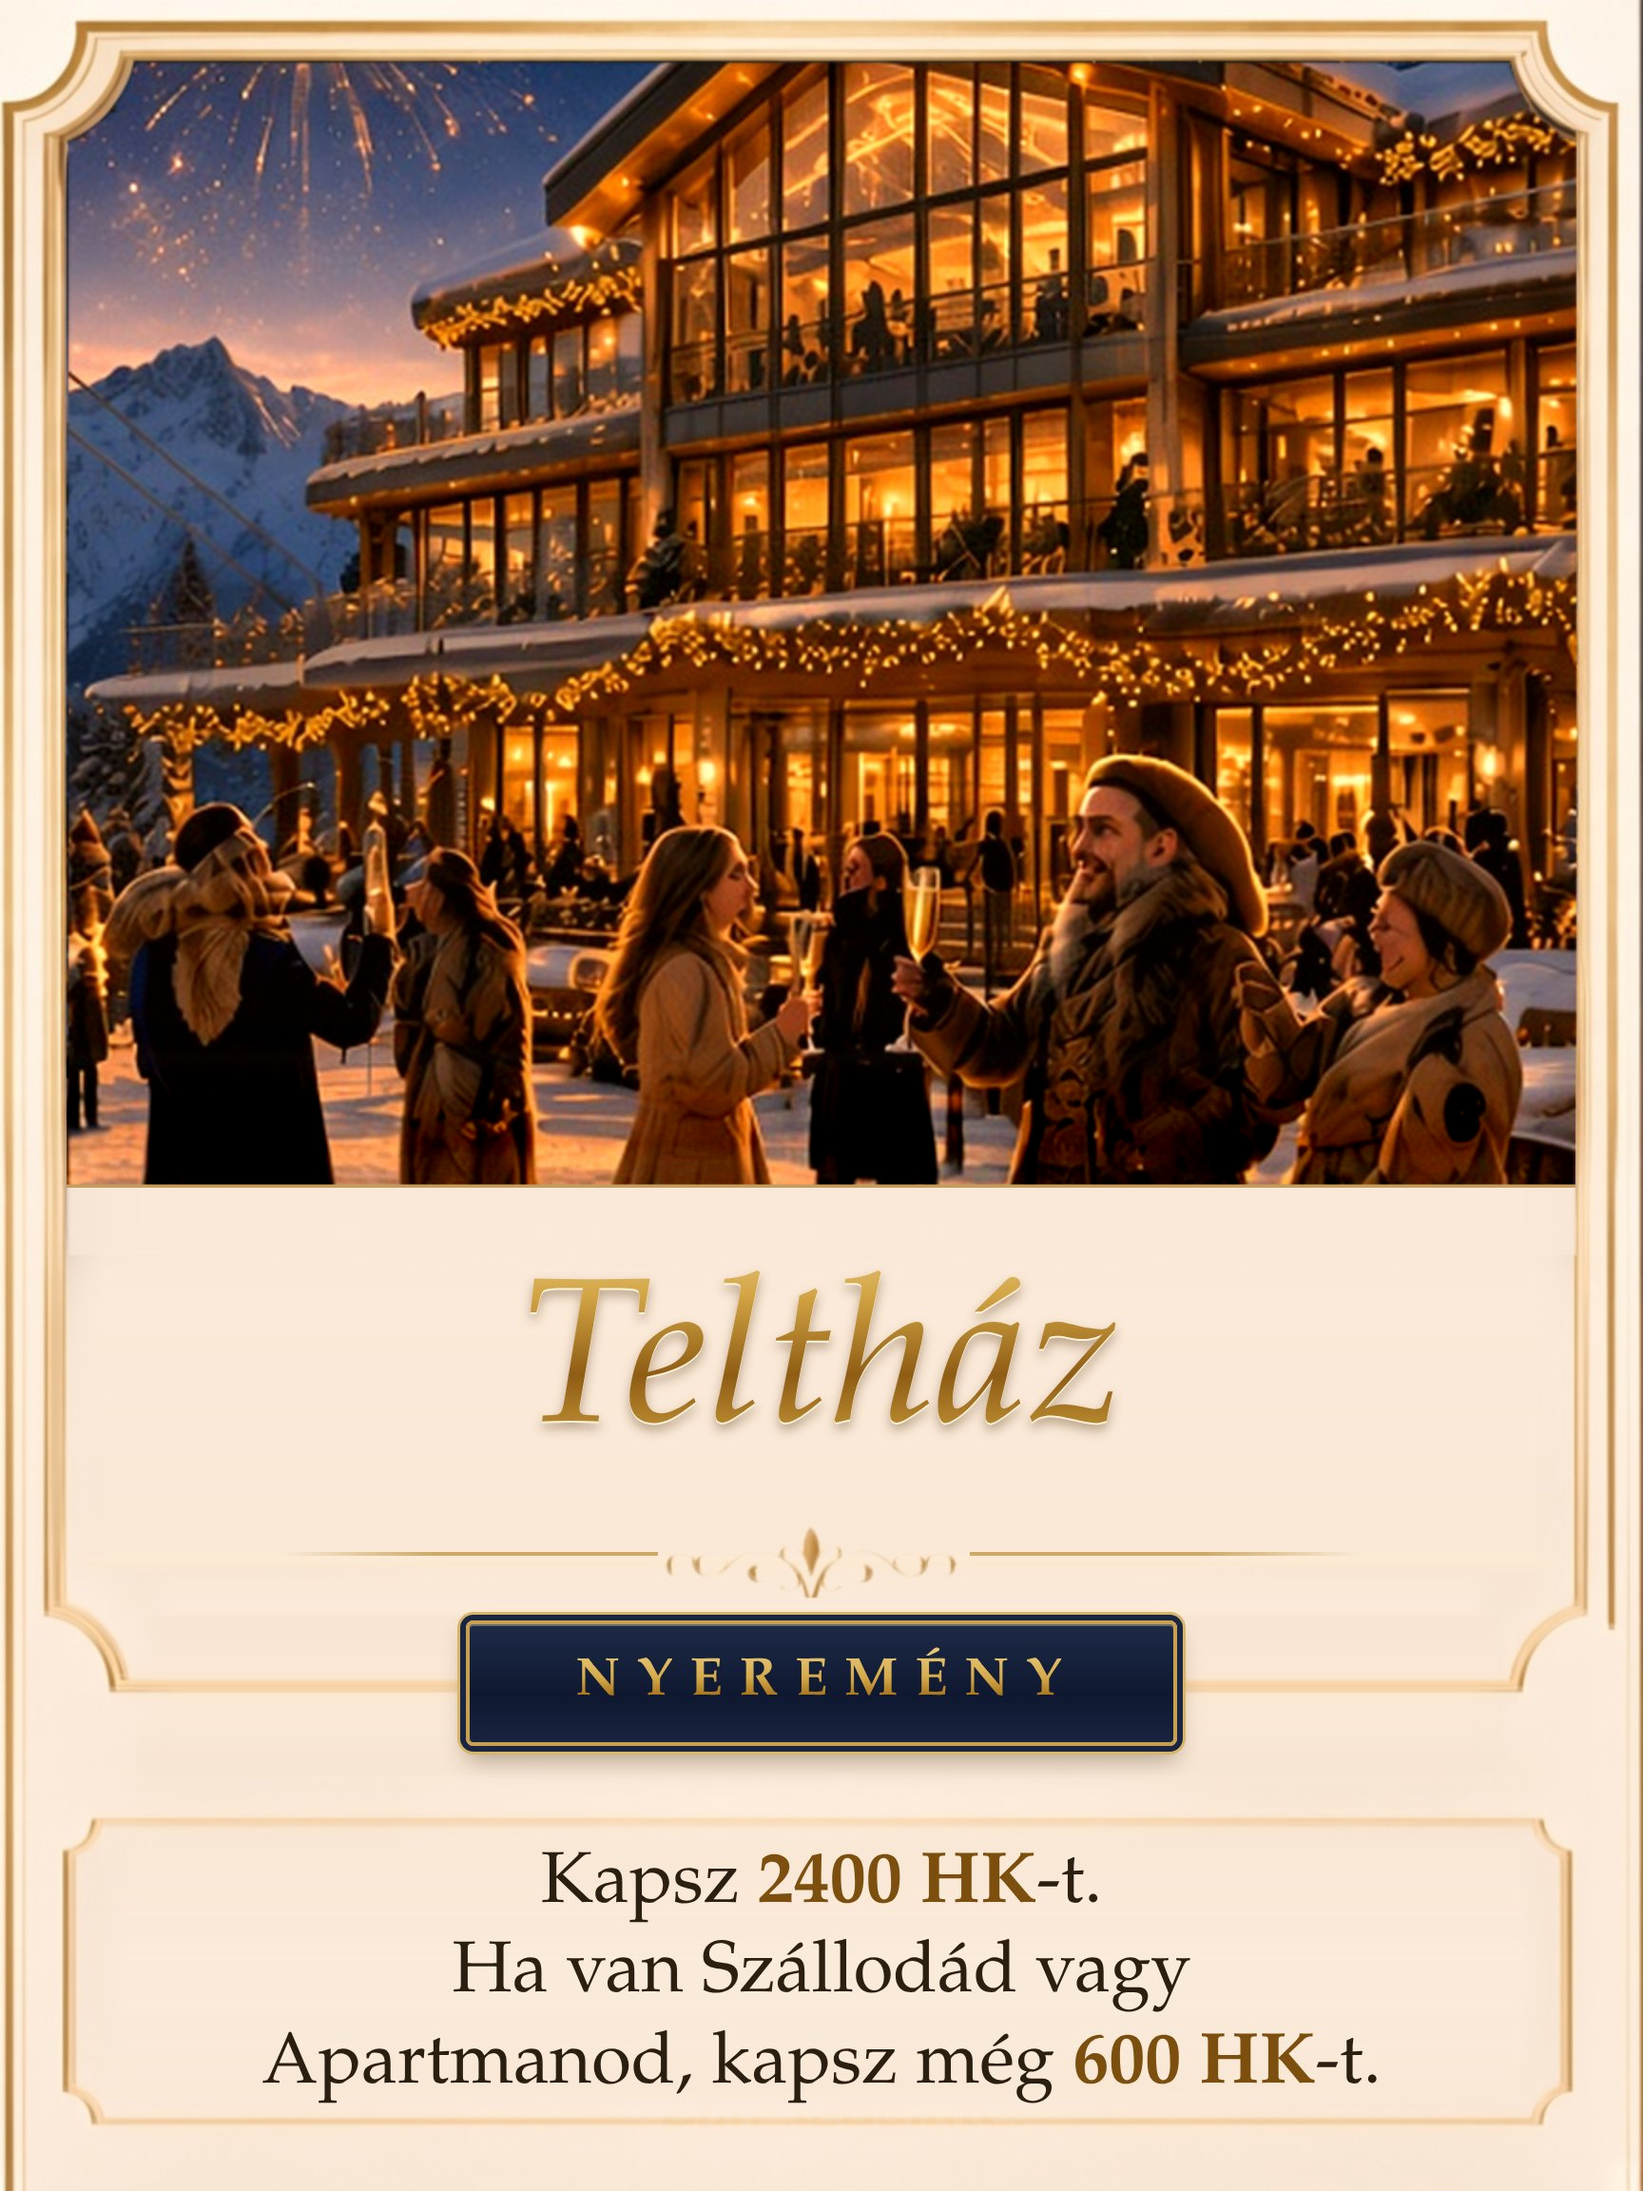
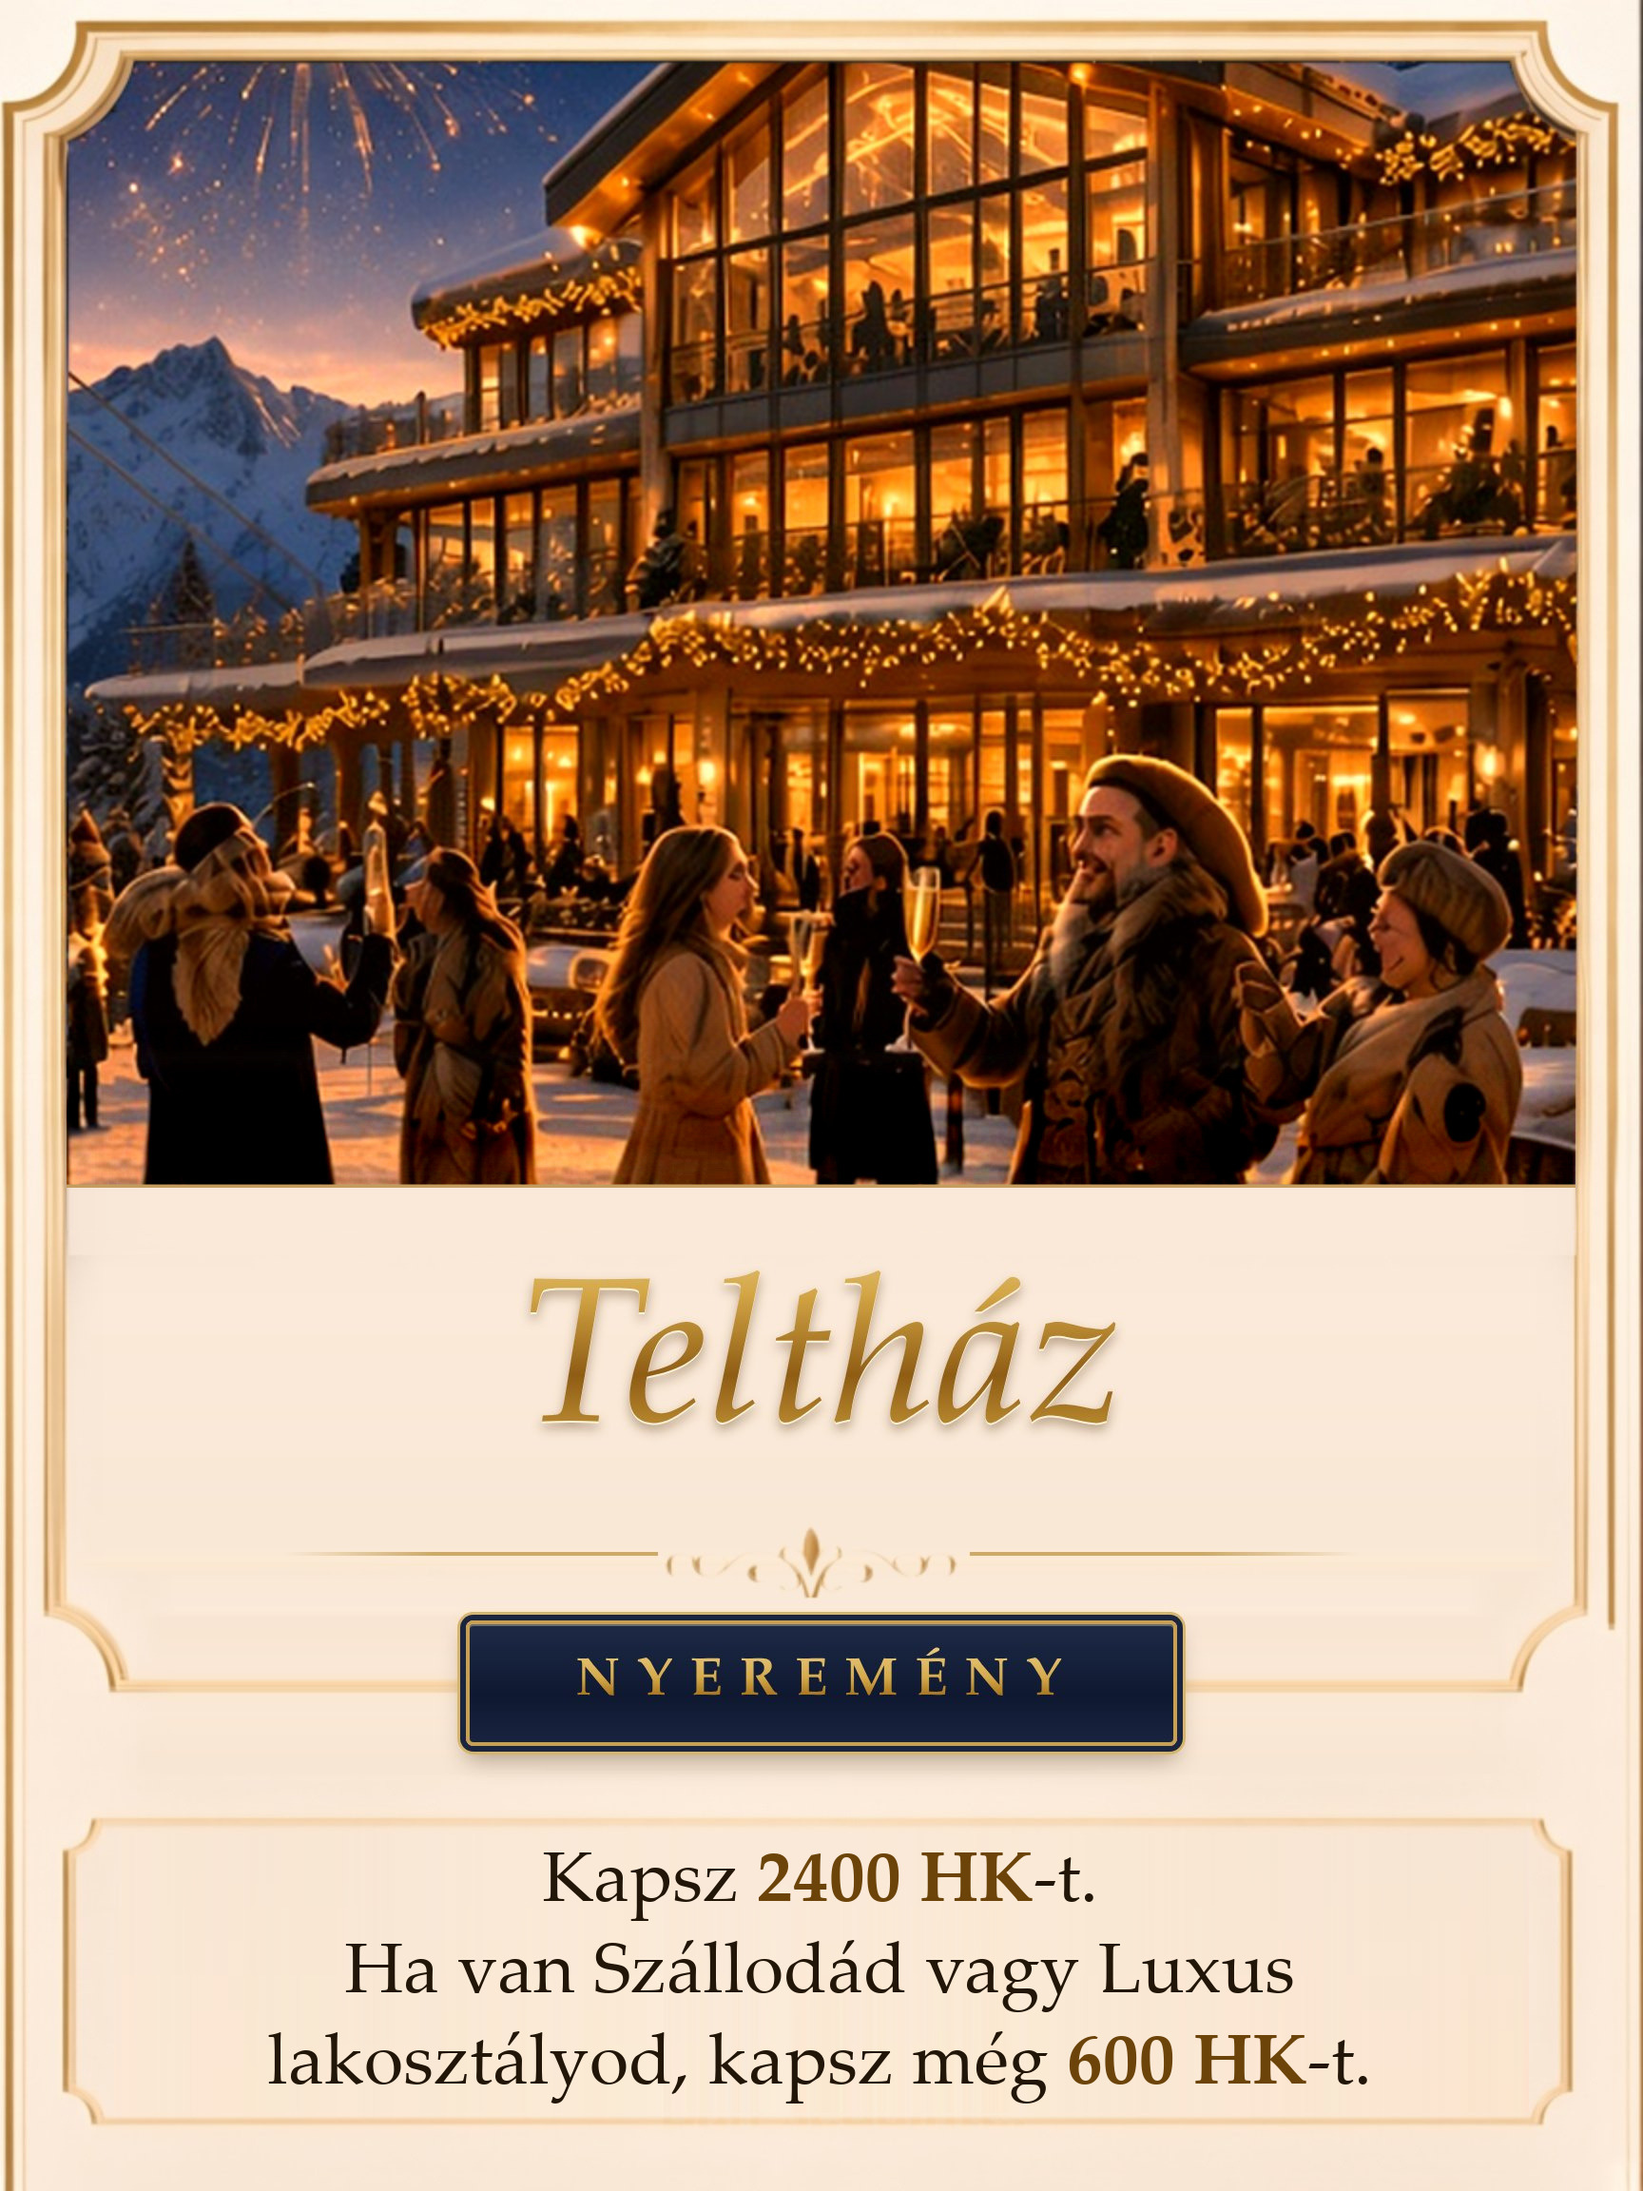
Fix the Teltház card naming a building that does not exist
The card said "Apartman"; the building in the game is "Luxus
lakosztályok" (which the code already checked). Card image text,
card data and the README now use the right name.

Changed region(s): [[0.1562, 0.8438, 0.8438, 0.9688]]

diff --git a/backend/deck.py b/backend/deck.py
@@ -26,7 +26,7 @@ CARDS = [
     {"id": "N02", "kind": "nyeremeny", "name": "Fesztivál", "text": "Kapsz 2200 HK-t."},
     {"id": "N03", "kind": "nyeremeny", "name": "Az év síterepe", "text": "Kapsz 2500 HK-t."},
     {"id": "N04", "kind": "nyeremeny", "name": "Ereklye eladása", "text": "Kapsz 1800 HK-t."},
-    {"id": "N05", "kind": "nyeremeny", "name": "Teltház", "text": "Kapsz 2400 HK-t. Ha van Szállodád vagy Apartmanod, kapsz még 600 HK-t."},
+    {"id": "N05", "kind": "nyeremeny", "name": "Teltház", "text": "Kapsz 2400 HK-t. Ha van Szállodád vagy Luxus lakosztályod, kapsz még 600 HK-t."},
     {"id": "N06", "kind": "nyeremeny", "name": "Nagyvonalú bank", "text": "Kapsz 1600 HK-t."},
     {"id": "N07", "kind": "nyeremeny", "name": "Olimpiai edzőtábor", "text": "Kapsz 2800 HK-t. Ha van Pályarendszered, kapsz még 500 HK-t."},
     {"id": "N08", "kind": "nyeremeny", "name": "Bajnokság", "text": "Kapsz 2000 HK-t."},

diff --git a/README.md b/README.md
@@ -1,4 +1,4 @@
-építkezési rendszer: helikopter, felvonó, szálloda, pályarendszer, étterem, wellness és spa, apartmanok, luxusbar
+építkezési rendszer: helikopter, felvonó, szálloda, pályarendszer, étterem, wellness és spa, luxus lakosztályok, luxusbár
 gazdaság: Hókristály Kredit, szezonbérlet, 42000 a teljes, 10000 kezdő; bevételi mező +2200, kiadási mező -1300
 győzelmi feltételek: 8 épület, legalább 7000 HK, nincs tartozás
 tábla: 40 mező,
